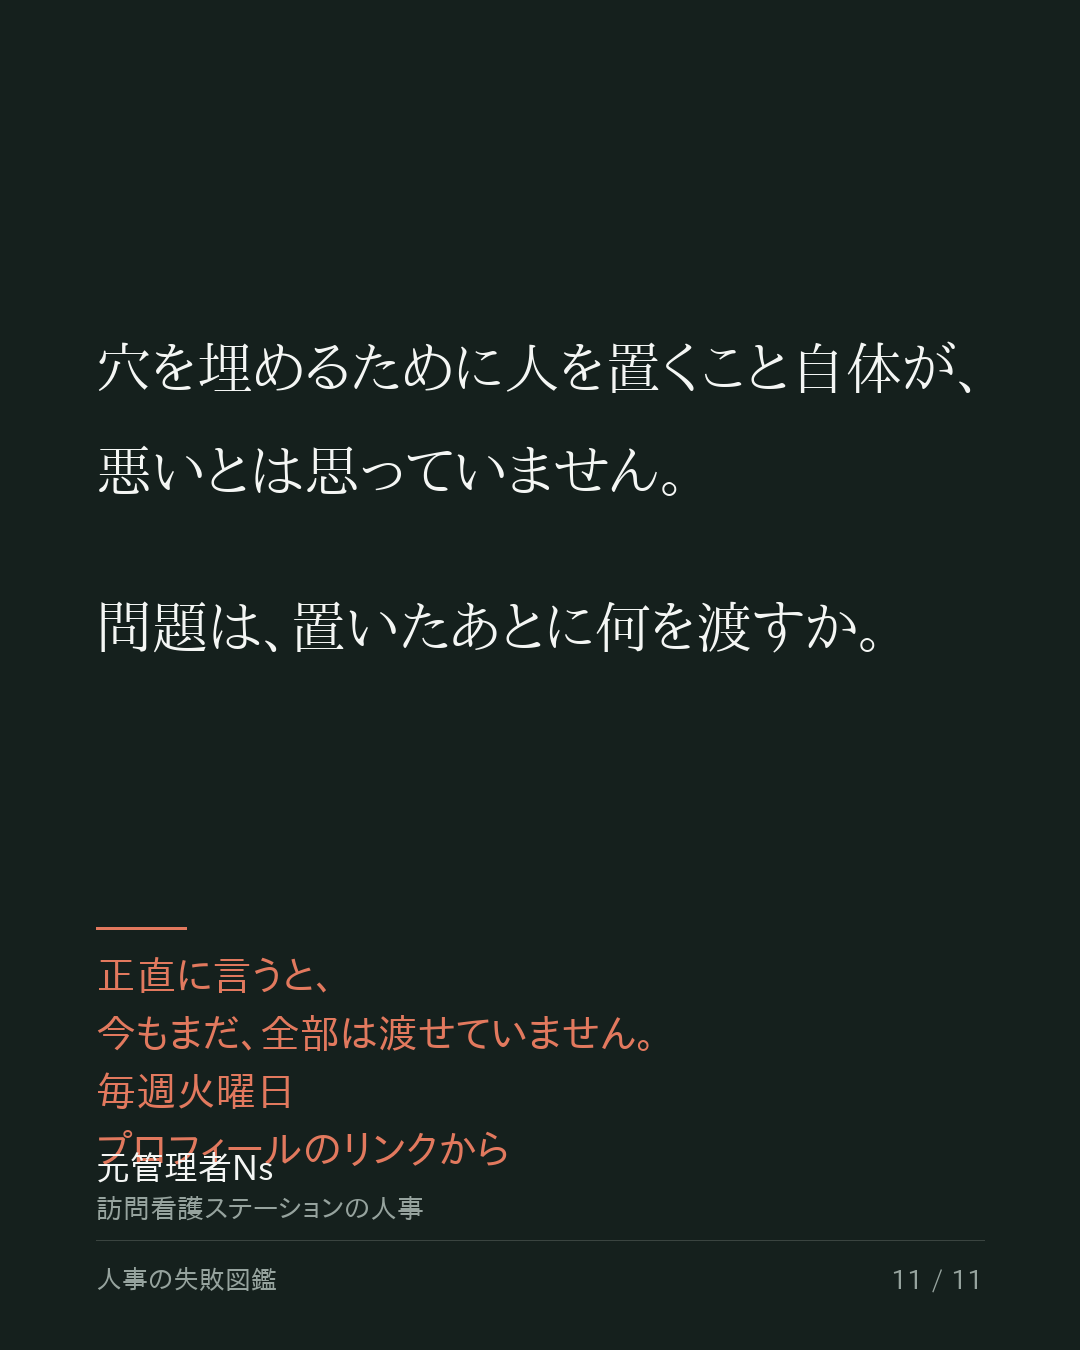
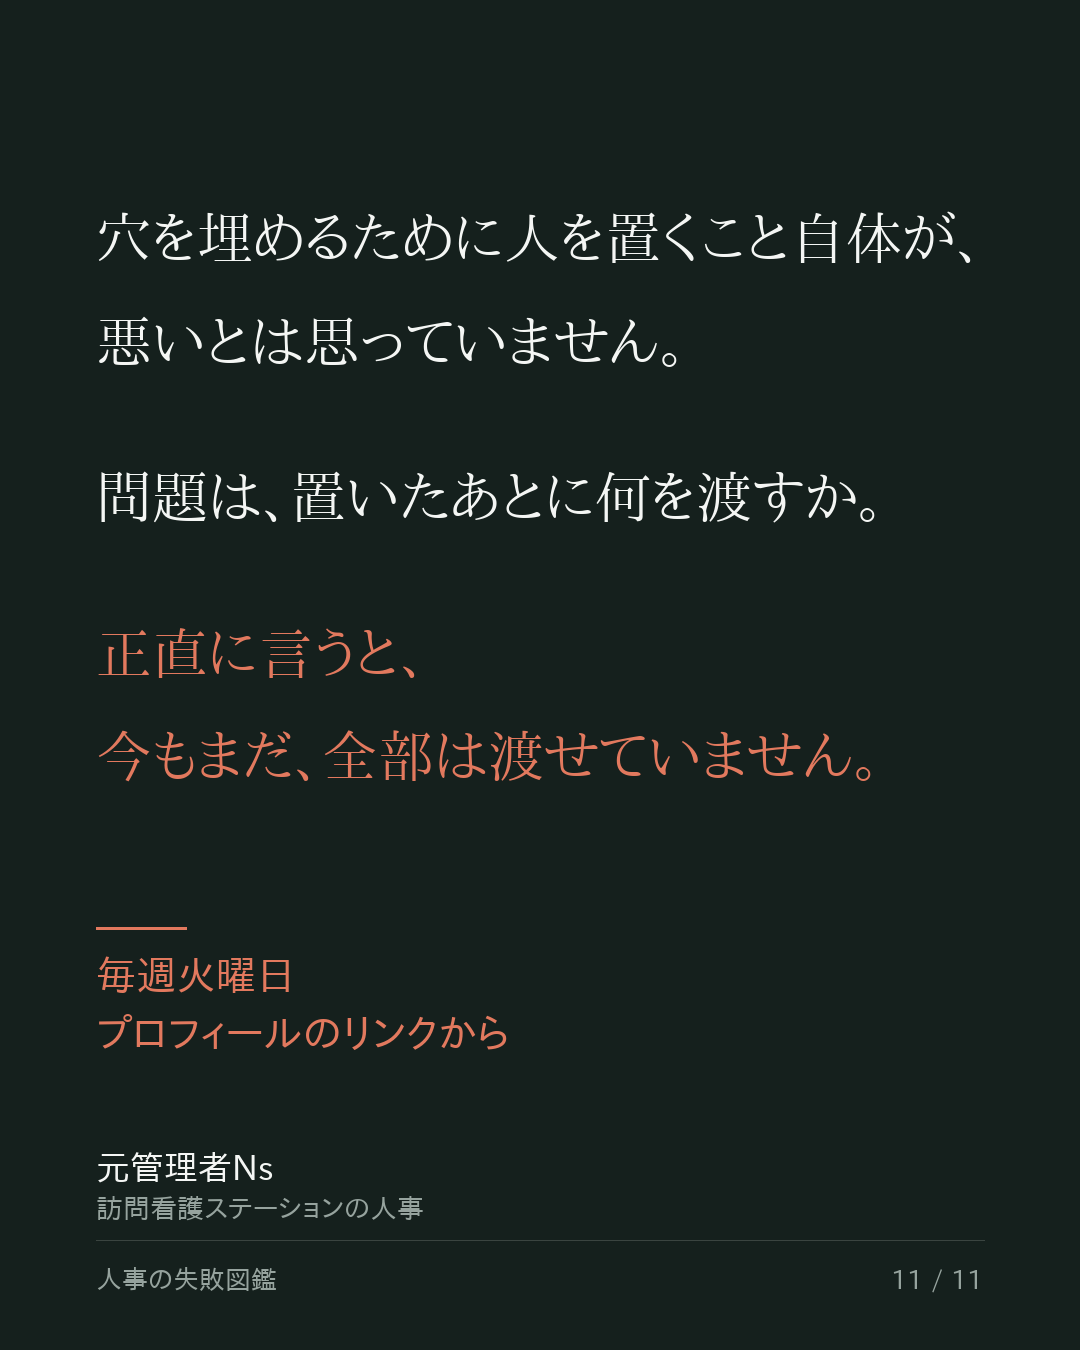
01(9/29)の公開素材を再生成：整形メモの行番号とカルーセル最終枚の重なりを修正
- make_note_text.py: 整形メモの行番号を、実際に貼るテキストの行番号に合わせる
  （空行の畳み込み前に数えていたため1〜9行ずれていた）。区切り線は「〜」の下、で示す
- make_carousel.py: [end] の * 行のうち、最後の空行より後ろだけを CTA にする
  （01 の11枚目で本文の朱色行が CTA 扱いになり、署名と重なっていた）
- 全回の整形メモを再生成（本文テキストは変更なし）

Claude-Session: https://claude.ai/code/session_01YGJ9eDg6KFptkrdWVW6DzJ

diff --git a/note/make_note_text.py b/note/make_note_text.py
@@ -40,7 +40,7 @@ def convert(path):
 
         if s.strip() == "---":
             out.append("")
-            fmt.append(("区切り線", f"{n+1}行目のあたり", "ツールバーの「−」（区切り線）を入れる"))
+            fmt.append(("区切り線", len(out) - 1, None))
             n += 1
             continue
 
@@ -48,14 +48,14 @@ def convert(path):
             t = s[3:].strip()
             out.append(t)
             n += 1
-            fmt.append(("大見出し", f"{n}行目", t))
+            fmt.append(("大見出し", len(out) - 1, t))
             continue
 
         if s.startswith("### "):
             t = s[4:].strip()
             out.append(t)
             n += 1
-            fmt.append(("小見出し", f"{n}行目", t))
+            fmt.append(("小見出し", len(out) - 1, t))
             continue
 
         if s.startswith("> "):
@@ -63,28 +63,49 @@ def convert(path):
             t = re.sub(r"\*\*(.+?)\*\*", r"\1", t)
             out.append(t)
             n += 1
-            fmt.append(("引用", f"{n}行目", t[:30]))
+            fmt.append(("引用", len(out) - 1, t[:30]))
             continue
 
         # 太字を拾う
         for m in re.finditer(r"\*\*(.+?)\*\*", s):
-            fmt.append(("太字", f"{n+1}行目", m.group(1)))
+            fmt.append(("太字", len(out), m.group(1)))
 
         t = re.sub(r"\*\*(.+?)\*\*", r"\1", s)
         t = re.sub(r"^\s*[-*]\s+", "・", t)
         out.append(t)
         n += 1
 
-    # 連続する空行を1つに
-    cleaned, prev_blank = [], False
-    for l in out:
+    # 連続する空行を1つにし、先頭の空行も落とす。
+    # 整形メモの行番号は、この「貼り付けるテキスト」の行番号に合わせる
+    cleaned, where, prev_blank = [], {}, True
+    for i, l in enumerate(out):
         blank = not l.strip()
+        where[i] = len(cleaned)  # 落とした行は、次に残る行の位置を指す
         if blank and prev_blank:
             continue
         cleaned.append(l)
         prev_blank = blank
+    while cleaned and not cleaned[-1].strip():
+        cleaned.pop()
 
-    return title, "\n".join(cleaned).strip(), fmt
+    def last_text_before(j):
+        for k in range(min(j, len(cleaned)) - 1, -1, -1):
+            if cleaned[k].strip():
+                return k
+        return None
+
+    located = []
+    for kind, i, t in fmt:
+        j = where.get(i, len(cleaned))
+        if kind == "区切り線":
+            k = last_text_before(j)
+            if k is None or j >= len(cleaned):
+                continue  # 本文の最初や最後の区切り線は note では不要
+            located.append((kind, f"{k+1}行目のあと", f"「{cleaned[k][:20]}」の下に「−」（区切り線）を入れる"))
+        else:
+            located.append((kind, f"{j+1}行目", t))
+
+    return title, "\n".join(cleaned), located
 
 
 def main():

diff --git a/note/instagram/make_carousel.py b/note/instagram/make_carousel.py
@@ -166,8 +166,12 @@ def render_end(lines, idx, total):
     img = Image.new("RGB", (W, H), INK)
     d = ImageDraw.Draw(img)
 
-    main = [l for l in lines if not l.startswith("*")]
-    cta = [l[1:].strip() for l in lines if l.startswith("*")]
+    # 最後の空行より後ろの * 行だけが CTA。それより前の * 行は本文の朱色として残す
+    k = len(lines)
+    while k > 0 and lines[k - 1].startswith("*"):
+        k -= 1
+    main = lines[:k]
+    cta = [l[1:].strip() for l in lines[k:]]
     while main and not main[-1].strip():
         main.pop()
 
